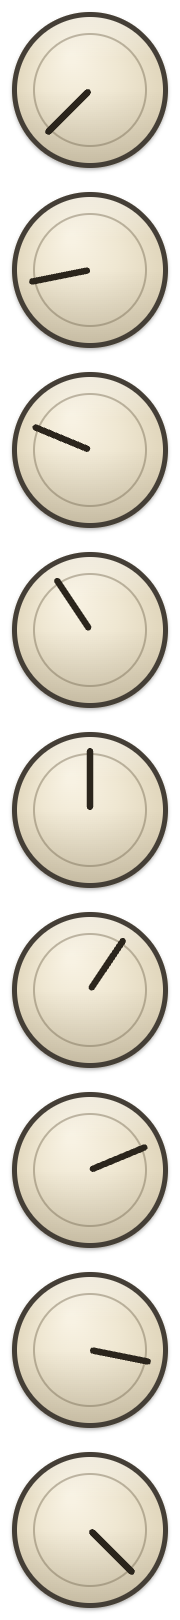
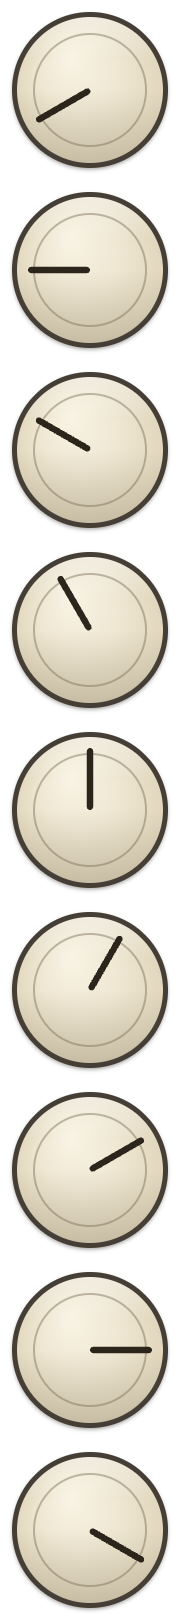
Design delta v1.0.4: knob strips re-exported at +/-120 (tick placement still off)
The three filmstrips are now correct. Measured frame by frame: knob_large
sweeps +/-120.03, knob_model +/-119.97, knob_small +/-122.63 - and that last
one is a measurement artifact, not a defect. The v1.0.3 small strip read
+/-137.02 when it was certainly baked at the same 135 as the large one, so the
method carries a ~+2 degree bias on the 52px frame; corrected, the new small
strip is ~120.5.

knob_model was re-exported too, which the changelog explains: its nine ticks are
drawn by the same routine as every other scale, so they moved from a 33.75 to a
30 degree grid with the sweep. Nine needle angles are now -120..+120 in 30
degree steps, verified.

The plate's tick placement did NOT land. The printed scales now span roughly
+/-106 rather than +/-120, so a mismatch remains - smaller than the 15 degrees
it replaced, but real. Measured with an identical band on both plates, which
makes it apples-to-apples: WOW's quarter marks moved from -59.7/+60.0 (v1.0.3,
exactly right for +/-120) to -52.8/+53.1. MIX and OUTPUT moved the same way,
and all three are linear controls the changelog lists as untouched. Compositing
knob_large frame 32 onto WOW - a linear control at value 25 - puts the needle
visibly below the printed 25 mark.

Carried through correctly and re-verified: the v1.0.2 cleared legend rows (0
amber pixels in both), the v1.0.3 LCD divider at x 491.0 and chevron at
x 859.5-870.0, plate size, and every knob centre.
[…]

diff --git a/design/CHANGES.md b/design/CHANGES.md
@@ -1,25 +1,54 @@
-# TapeRot GUI — delta v1.0.3
+# TapeRot GUI — delta v1.0.4
 
-Supersedes the corresponding files in v1.0.2. Panel bitmap only — no sprite, coordinate, frame count or icon changes, and the scope legend rows stay exactly as v1.0.2 shipped them.
+Supersedes the corresponding files in v1.0.3. Knob sweep and tick placement, shipped together. No coordinate, frame count, sprite size, sheet layout or icon changes. The v1.0.3 LCD divider/chevron placement and the v1.0.2 cleared legend rows are carried through untouched.
 
 ## Changed
 
 | File | Size |
 |---|---|
-| `assets/1x/panel_background.png` | 1336 × 679 |
-| `assets/2x/panel_background_2x.png` | 2672 × 1358 |
+| `assets/1x/knob_large.png` / `assets/2x/knob_large_2x.png` | 90 × 11520 / 180 × 23040 |
+| `assets/1x/knob_small.png` / `assets/2x/knob_small_2x.png` | 52 × 6656 / 104 × 13312 |
+| `assets/1x/knob_model.png` / `assets/2x/knob_model_2x.png` | 90 × 810 / 180 × 1620 |
+| `assets/1x/panel_background.png` / `assets/2x/panel_background_2x.png` | 1336 × 679 / 2672 × 1358 |
+| `TapeRot-GUI-Spec.md` | §3 corrected |
 
-### PROGRAM LCD marks moved right
+### 1. Sweep is now ±120°
 
-Horizontal only — both marks keep their y, stroke weight, angle, colour and 16 × 16 box.
+Both continuous strips re-exported at −120° → +120°, still 128 frames, frame 0 = minimum. Frame size, cap artwork, bleed and frame order are unchanged; only the needle angle differs. You were right that the strips were baked to the spec line rather than the artwork.
 
-| Mark | Was (1×) | Now (1×) | Now (2×) |
-|---|---|---|---|
-| Divider rule | x 444 | **x 490.9** | x 981.8 |
-| Chevron ink | x 457.5–468.0 | **x 859.3–870.7** | x 1718.6–1741.4 |
+**`knob_model` is included, and this is deliberate.** Its nine tick marks are drawn by the same routine that draws every other scale, so they moved from a 33.75° grid to a 30° grid when the sweep changed. Leaving the model strip at ±135° would have introduced exactly the misalignment being fixed elsewhere. Frame count, frame size and order are unchanged — the nine needle angles are now −120, −90, −60, −30, 0, 30, 60, 90, 120.
 
-The chevron's 16 × 16 box now sits at x 857–873, i.e. 14 px in from the frame's inner edge at 887 — the v1.0.1 description applied to the right edge, as intended.
+### 2. Non-linear ticks repositioned
 
-**Root cause, for the record.** Both marks are laid out in flow between the bank chip and the program name. The bake pass blanked the chip's and name's text outright, so those two boxes collapsed to zero width and the divider and chevron slid left with them. The bake now hides that text while preserving each box's width, so every mark bakes at the position the runtime lays out. This was a plate-generation bug, not a design coordinate — which is why the runtime and the plate disagreed by exactly the width of the collapsed text.
+Ticks moved on DRIVE, FLUTTER, LP, HP and RAMP; WOW, NOISE, FAILURE, MIX and OUTPUT are untouched. Minor ticks sit halfway in **rotation** between neighbouring majors, as specified.
 
-No code change on receipt.
+DRIVE and FLUTTER take the 0 / 1 / 5 / 20 / 50 / 100 set — the spread reads as a proper log-tapered control, and the crowding of the 0/25/50/75/100 alternative was not worth keeping round numbers for.
+
+| Knob | Marks at |
+|---|---|
+| DRIVE, FLUTTER | 0 → −120.0°, 1 → −24.5°, 5 → +11.8°, 20 → +53.9°, 50 → +88.9°, 100 → +120.0° |
+| LP | 1 → −120.0°, 2 → −20.8°, 5 → +30.4°, 10 → +71.8°, 20 → +120.0° |
+| HP | 20 → −120.0°, 50 → −51.7°, 200 → −3.1°, 800 → +61.5°, 2000 → +120.0° |
+| RAMP | 0.05 → −120.0°, 0.2 → −55.1°, 0.5 → −19.3°, 1 → +15.7°, 4 → +120.0° |
+
+Measured off the rendered plate before export: all eleven scales land within 0.05° of the table above.
+
+### 3. Scale numerals moved off their ticks
+
+The printed numerals sat tight against their tick marks on nearly every scale. The numeral ring radius goes from `D/2 + 17` to `D/2 + 20`, with a few marks pushed further where the glyph width still crowded the tick:
+
+| Scale | Numeral ring |
+|---|---|
+| All knobs, default | D/2 + 20 |
+| Large knobs, last mark (`100`, `+24`) | D/2 + 22 |
+| HP `800` | D/2 + 22 |
+| RAMP `0.05` | D/2 + 23 |
+| HP `2000` | D/2 + 24 |
+
+Tick marks themselves did not move — angles are exactly the table in §2.
+
+The knob's bounding box is now pinned to the old radius rather than derived from the numeral ring, so the extra pixels do not grow the plate: it is still 1336 × 679 / 2672 × 1358 and all eleven knob centres are where v1.0.3 put them. Verified after re-bake.
+
+### 4. Spec §3
+
+Corrected to ±120°, with the skew curve and its five affected parameters written in beside it, so a future re-export can't reintroduce the ±135° figure.

diff --git a/design/TapeRot-GUI-Spec.md b/design/TapeRot-GUI-Spec.md
@@ -41,7 +41,9 @@ Two strips cover all ten continuous knobs — the cap art is identical, only the
 - `knob_small.png` — cap ⌀40, frame **52 × 52**, 128 frames → strip **52 × 6656**
 - `knob_model.png` — cap ⌀78, frame **90 × 90**, 9 frames → strip **90 × 810**
 
-Frame index = `round(value01 * 127)`. Pointer sweeps −135° → +135°.
+Frame index = `round(value01 * 127)`. Pointer sweeps **−120° → +120°** (measured from vertical, positive clockwise) — matching the printed scales on the plate.
+
+Rotation is not proportional to value on every control. Five parameters use `rotation01 = ((value − min) / (max − min)) ^ skew`: DRIVE and FLUTTER (skew 0.2), LP and HP (skew 0.3), RAMP (skew 0.4). The remaining continuous controls are linear. The printed ticks are placed under those curves, so the frame index must be derived from `rotation01`, not from the raw value.
 
 | Control | Strip | Frames | Frame | Sprite x | Sprite y | Cap centre |
 |---|---|---|---|---|---|---|
